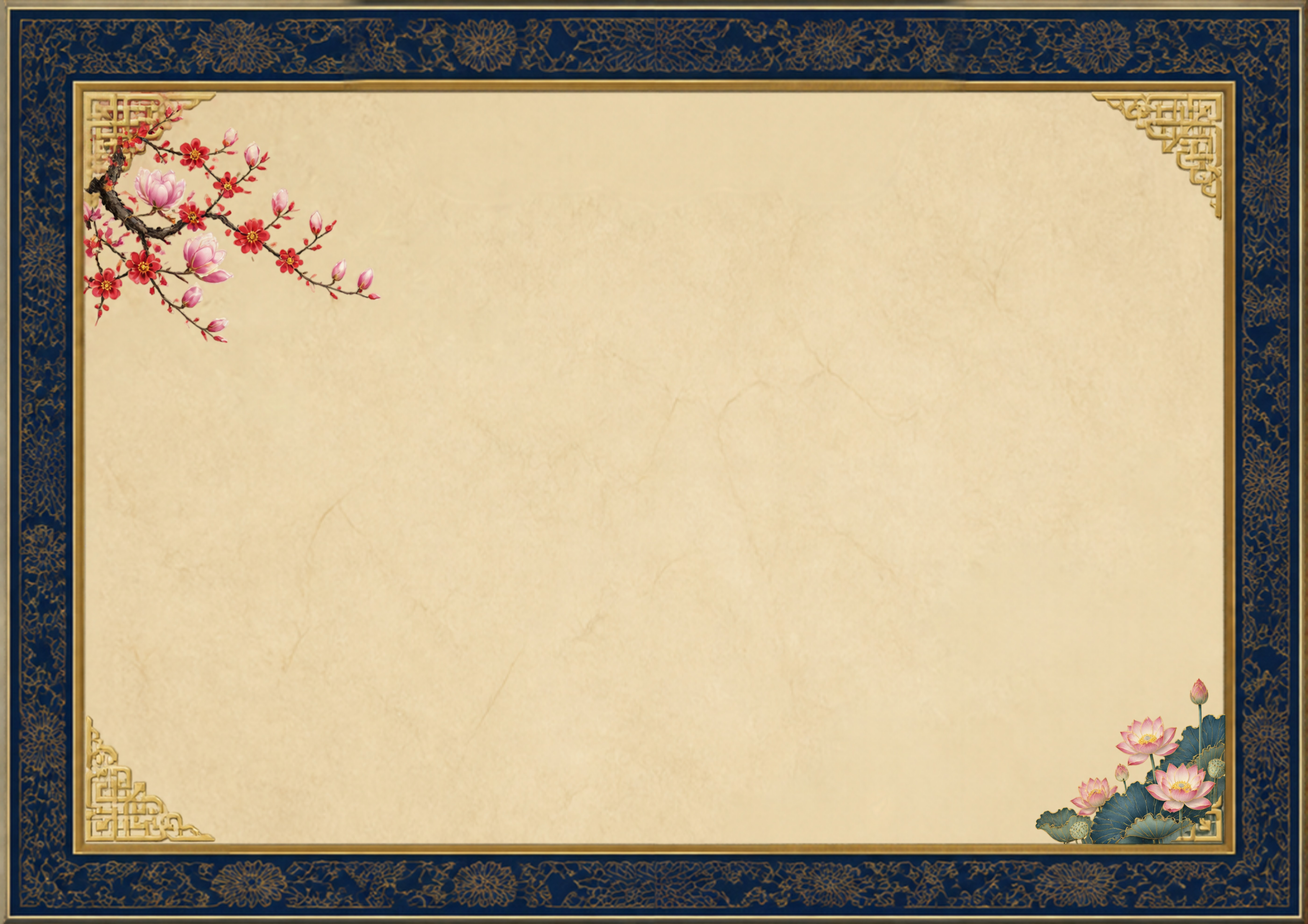
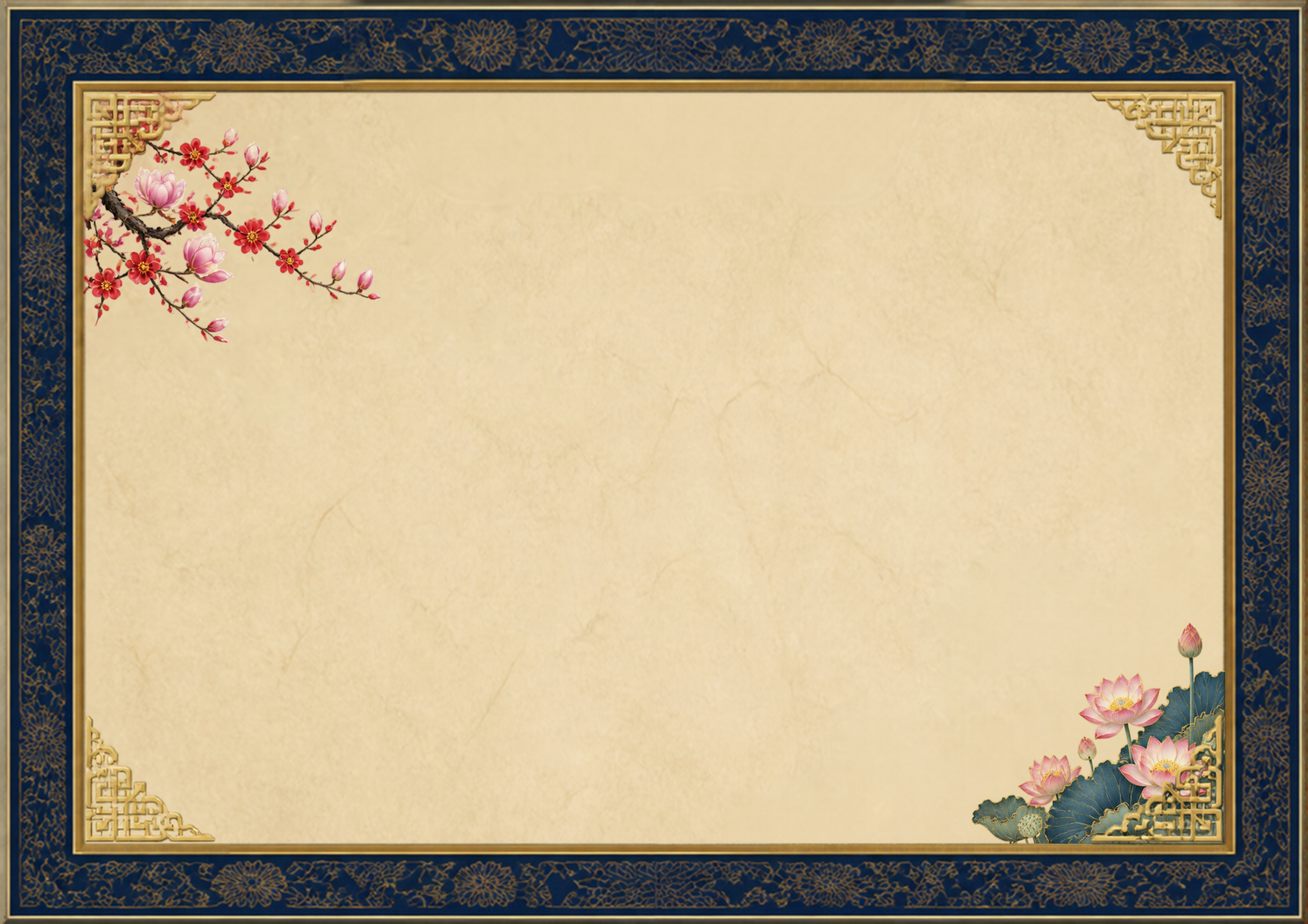
In ấn: thanh kéo Lên/xuống cho sơ đồ; Gấm lam mai sen: ke góc nổi trên hoa, sen lớn hơn (D99)
Claude-Session: https://claude.ai/code/session_012xT1yzyoyLnMYzaypnj3Zm

Changed region(s): [[0.7188, 0.6842, 0.9375, 0.933], [0.0625, 0.1244, 0.125, 0.2488]]

diff --git a/src/features/print/PrintPage.tsx b/src/features/print/PrintPage.tsx
@@ -4,7 +4,7 @@ import { useClanStore } from '@/store/clanStore';
 import { PRINT_THEMES, printThemeOrDefault } from '@/themes/registry';
 import type { Theme } from '@/themes/types';
 import { BranchPicker } from './BranchPicker';
-import { A1, DEFAULT_POSTER_OPTIONS, MAX_TREE_ZOOM, MIN_TREE_ZOOM, PosterSvg, type PosterOptions } from './PosterSvg';
+import { A1, DEFAULT_POSTER_OPTIONS, MAX_TREE_SHIFT_MM, MAX_TREE_ZOOM, MIN_TREE_ZOOM, PosterSvg, type PosterOptions } from './PosterSvg';
 import { usePrintLayoutBuilder, useThemeFonts } from './usePrintScope';
 import styles from './Print.module.css';
 
@@ -32,10 +32,15 @@ export default function PrintPage() {
   // Each theme's own fit is the default size of the tree (D98): back to it on a new theme.
   const pick = (t: Theme) => {
     setThemeId(t.id);
-    setOpts((o) => ({ ...o, treeZoom: 1, orientation: t.preferredOrientation ?? o.orientation }));
+    setOpts((o) => ({ ...o, treeZoom: 1, treeShiftMm: 0, orientation: t.preferredOrientation ?? o.orientation }));
   };
   const zoomPct = Math.round(opts.treeZoom * 100);
   const setZoom = (pct: number) => setOpts((o) => ({ ...o, treeZoom: pct / 100 }));
+  // Up/down (D99): positive moves the tree down the sheet.
+  const shift = opts.treeShiftMm;
+  const setShift = (mm: number) => setOpts((o) => ({ ...o, treeShiftMm: mm }));
+  const shiftText = shift === 0 ? '0 mm' : `${shift < 0 ? 'Lên' : 'Xuống'} ${Math.abs(shift)} mm`;
+  const isDefault = zoomPct === 100 && shift === 0;
 
   // PDF of the sheet in the preview (D72): vector text and lines, pictures at full resolution.
   const previewRef = useRef<HTMLDivElement>(null);
@@ -149,26 +154,52 @@ export default function PrintPage() {
           {pdfNote}
         </p>
       )}
-      <div className={styles.zoomBar}>
-        <label htmlFor="print-zoom">Cỡ sơ đồ</label>
-        <input
-          id="print-zoom"
-          type="range"
-          min={MIN_TREE_ZOOM * 100}
-          max={MAX_TREE_ZOOM * 100}
-          step={5}
-          value={zoomPct}
-          aria-valuetext={`${zoomPct}%${zoomPct === 100 ? ', mặc định của giao diện' : ''}`}
-          onChange={(e) => setZoom(Number(e.target.value))}
-        />
-        <output htmlFor="print-zoom" className={styles.zoomValue}>
-          {zoomPct}%
-        </output>
-        <button type="button" className={styles.zoomReset} onClick={() => setZoom(100)} disabled={zoomPct === 100}>
+      {/* Size and place of the tree on the sheet (D98, D99); the theme's own are the default. */}
+      <div className={styles.adjust} role="group" aria-label="Căn chỉnh sơ đồ">
+        <div className={styles.zoomBar}>
+          <label htmlFor="print-zoom">Cỡ sơ đồ</label>
+          <input
+            id="print-zoom"
+            type="range"
+            min={MIN_TREE_ZOOM * 100}
+            max={MAX_TREE_ZOOM * 100}
+            step={5}
+            value={zoomPct}
+            aria-valuetext={`${zoomPct}%${zoomPct === 100 ? ', mặc định của giao diện' : ''}`}
+            onChange={(e) => setZoom(Number(e.target.value))}
+          />
+          <output htmlFor="print-zoom" className={styles.zoomValue}>
+            {zoomPct}%
+          </output>
+        </div>
+        <div className={styles.zoomBar}>
+          <label htmlFor="print-shift">Lên / xuống</label>
+          <input
+            id="print-shift"
+            type="range"
+            min={-MAX_TREE_SHIFT_MM}
+            max={MAX_TREE_SHIFT_MM}
+            step={5}
+            value={shift}
+            aria-valuetext={shift === 0 ? 'Vị trí mặc định của giao diện' : shiftText}
+            onChange={(e) => setShift(Number(e.target.value))}
+          />
+          <output htmlFor="print-shift" className={styles.zoomValue}>
+            {shiftText}
+          </output>
+        </div>
+        <button
+          type="button"
+          className={styles.zoomReset}
+          onClick={() => setOpts((o) => ({ ...o, treeZoom: 1, treeShiftMm: 0 }))}
+          disabled={isDefault}
+        >
           Mặc định
         </button>
       </div>
-      {zoomPct > 100 && <p className={styles.hint}>Sơ đồ lớn hơn cỡ mặc định có thể tràn ra khung tranh: xem kỹ bản xem trước trước khi in.</p>}
+      {(zoomPct > 100 || shift !== 0) && (
+        <p className={styles.hint}>Sơ đồ khác cỡ hoặc vị trí mặc định có thể tràn ra khung tranh hay chạm tiêu đề: xem kỹ bản xem trước trước khi in.</p>
+      )}
       <div ref={previewRef} className={styles.preview}>
         <PosterSvg
           className={styles.poster}

diff --git a/tests/printPdf.test.tsx b/tests/printPdf.test.tsx
@@ -2,7 +2,7 @@ import { existsSync } from 'node:fs';
 import { join } from 'node:path';
 import { render } from '@testing-library/react';
 import { FALLBACK_FAMILY, PDF_FONTS, nearestFont, preparePosterSvg, styleKey } from '@/features/print/exportPdf';
-import { MAX_TREE_ZOOM, PRINT_SPACING, PosterSvg, Relief, fitBoardText, placeTree, type BoardLine } from '@/features/print/PosterSvg';
+import { MAX_TREE_SHIFT_MM, MAX_TREE_ZOOM, PRINT_SPACING, PosterSvg, Relief, fitBoardText, placeTree, type BoardLine } from '@/features/print/PosterSvg';
 import { buildClanModel } from '@/lib/clanModel';
 import { loadDemoSnapshot } from '@/lib/data/demoSource';
 import { computeTreeLayout } from '@/features/tree/layout';
@@ -490,5 +490,26 @@ describe('tree size slider (D98)', () => {
     const g = Array.from(container.querySelectorAll('g[transform]')).find((x) => /^translate\([^)]*\) scale\(/.test(x.getAttribute('transform')!))!;
     const [, , y] = /translate\(([-\d.]+) ([-\d.]+)\)/.exec(g.getAttribute('transform')!)!.map(Number);
     expect(y!).toBeGreaterThan(theme.contentInsetMm!.top);
+  });
+});
+
+describe('tree up/down slider (D99)', () => {
+  const theme = getTheme('gam-lam-mai-sen')!;
+  const place = (shift?: number) => {
+    const { container } = render(<PosterSvg theme={theme} model={model} layout={layout} options={shift === undefined ? {} : { treeShiftMm: shift }} />);
+    const g = Array.from(container.querySelectorAll('g[transform]')).find((x) => /^translate\([^)]*\) scale\(/.test(x.getAttribute('transform')!))!;
+    const [, x, y, k] = /translate\(([-\d.]+) ([-\d.]+)\) scale\(([\d.]+)\)/.exec(g.getAttribute('transform')!)!.map(Number);
+    return { x: x!, y: y!, k: k! };
+  };
+
+  it('moves the whole tree down or up by the millimetres chosen, nothing else', () => {
+    const base = place();
+    expect(place(0)).toEqual(base);
+    const down = place(40);
+    expect(down.y).toBeCloseTo(base.y + 40, 6);
+    expect(down.x).toBeCloseTo(base.x, 6);
+    expect(down.k).toBeCloseTo(base.k, 6);
+    expect(place(-25).y).toBeCloseTo(base.y - 25, 6);
+    expect(place(1000).y).toBeCloseTo(base.y + MAX_TREE_SHIFT_MM, 6);
   });
 });

diff --git a/src/features/print/PosterSvg.tsx b/src/features/print/PosterSvg.tsx
@@ -26,6 +26,8 @@ export interface PosterOptions {
    * theme's default). Set with a slider on the print page, 0.5–1.5.
    */
   treeZoom: number;
+  /** Moves the tree down (positive) or up (negative) from where the theme puts it, in mm (D99). */
+  treeShiftMm: number;
 }
 
 export const DEFAULT_POSTER_OPTIONS: PosterOptions = {
@@ -38,6 +40,7 @@ export const DEFAULT_POSTER_OPTIONS: PosterOptions = {
   // No "Đời 1, 2…" column on the sheet (D74).
   showGenerations: false,
   treeZoom: 1,
+  treeShiftMm: 0,
 };
 
 /** Builds the tree with a given spacing (the print page passes one, so the sheet can fit it). */
@@ -56,6 +59,8 @@ const MAX_TEXT_SCALE = 1.3;
 /** Range of the print page's tree size slider (D98), around the theme's own fit (1). */
 export const MIN_TREE_ZOOM = 0.5;
 export const MAX_TREE_ZOOM = 1.5;
+/** Range of the up/down slider (D99), in mm either way from the theme's own place. */
+export const MAX_TREE_SHIFT_MM = 150;
 /** Tightest line spacing in a card: the words (14 units on an 18-unit line) never touch. */
 const MIN_LINE_SCALE = 0.85;
 
@@ -555,7 +560,9 @@ export function PosterSvg({ theme, model, layout, options, className, title, sub
   const treeH = lh;
   // Centred in the free height unless the theme lifts it (`treeAlign`, D90); an enlarged
   // tree keeps its top under the title and grows downwards.
-  const oy = area.y + Math.max(0, area.h - treeH * scale) * (theme.treeAlign ?? 0.5) + 6 * scale;
+  // The print page's up/down slider moves it from there (D99).
+  const shift = Math.min(MAX_TREE_SHIFT_MM, Math.max(-MAX_TREE_SHIFT_MM, o.treeShiftMm ?? 0));
+  const oy = area.y + Math.max(0, area.h - treeH * scale) * (theme.treeAlign ?? 0.5) + 6 * scale + shift;
   const u = (mm: number) => mm / scale; // mm → tree units
 
   const nameColor = (male: boolean, blood: boolean) => (!blood ? c.spouse : male ? c.male : c.female);

diff --git a/tests/app.test.tsx b/tests/app.test.tsx
@@ -140,10 +140,21 @@ describe('other pages', () => {
     expect(screen.getByText('80%')).toBeInTheDocument();
     fireEvent.click(screen.getByRole('button', { name: 'Mặc định' }));
     expect(zoom.value).toBe('100');
+    // Up/down (D99): shown in mm, reset by the same button.
+    const shift = screen.getByLabelText('Lên / xuống') as HTMLInputElement;
+    expect(shift.value).toBe('0');
+    fireEvent.change(shift, { target: { value: '-20' } });
+    expect(screen.getByText('Lên 20 mm')).toBeInTheDocument();
+    fireEvent.change(shift, { target: { value: '35' } });
+    expect(screen.getByText('Xuống 35 mm')).toBeInTheDocument();
+    fireEvent.click(screen.getByRole('button', { name: 'Mặc định' }));
+    expect(shift.value).toBe('0');
     fireEvent.change(zoom, { target: { value: '120' } });
+    fireEvent.change(shift, { target: { value: '40' } });
     fireEvent.click(options[1]!);
     expect(options[1]).toHaveAttribute('aria-pressed', 'true');
     expect(zoom.value).toBe('100');
+    expect(shift.value).toBe('0');
     expect(screen.getByLabelText('Phạm vi in')).toBeInTheDocument();
     // D91: no frame-package import, no theme description, no phone note.
     expect(screen.queryByRole('button', { name: /Nhập gói giao diện|Tải JSON mẫu/ })).toBeNull();

diff --git a/src/features/print/Print.module.css b/src/features/print/Print.module.css
@@ -240,15 +240,21 @@
   margin: 0;
   flex: 1 1 260px;
 }
-/* "Cỡ sơ đồ" slider above the preview (D98): 100% is the theme's own size. */
-.zoomBar {
-  display: flex;
-  flex-wrap: wrap;
-  align-items: center;
-  gap: 8px 12px;
+/* "Cỡ sơ đồ" and "Lên / xuống" sliders above the preview (D98, D99): the theme's own are the default. */
+.adjust {
+  display: grid;
+  gap: 4px;
+  justify-items: start;
   margin: 16px 0 8px;
 }
+.zoomBar {
+  display: flex;
+  align-items: center;
+  gap: 8px 12px;
+  width: 100%;
+}
 .zoomBar label {
+  flex: 0 0 6.5em;
   font-size: 0.875rem;
   color: var(--text-2);
 }
@@ -259,7 +265,7 @@
   accent-color: var(--accent);
 }
 .zoomValue {
-  min-width: 4ch;
+  flex: 0 0 7.5em;
   font-variant-numeric: tabular-nums;
   font-weight: 600;
 }
